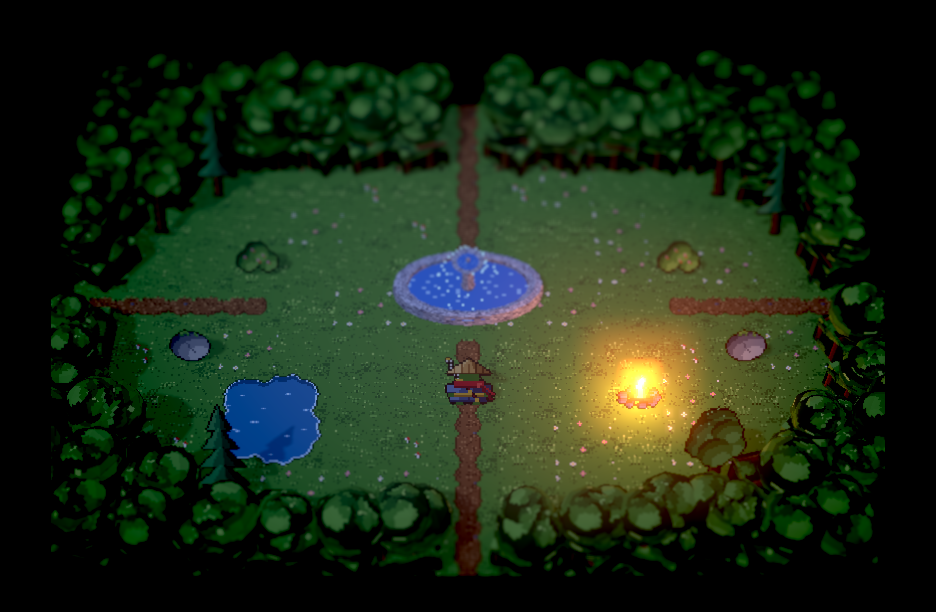
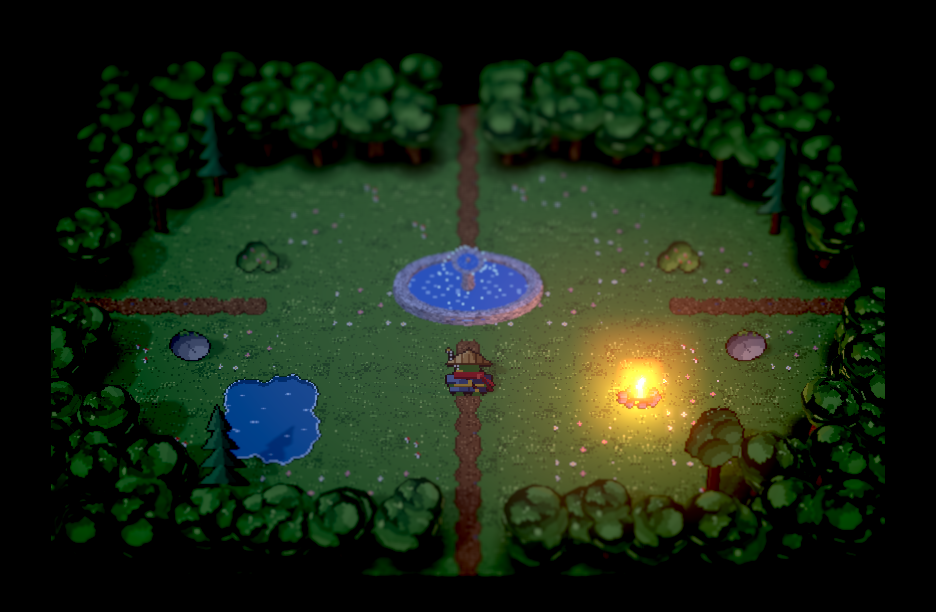
Prototipo HD-2D: un tronco por copa y sombra suave bajo el bosque
Los troncos eran la cara plana de una caja; ahora cada copa tiene su cilindro con corteza pixelada. Bajo el bosque, hierba con una sombra redonda por árbol en vez de un rectángulo oscuro.

Changed region(s): [[0.031, 0.0621, 0.9605, 0.9624], [0.4647, 0.5588, 0.5267, 0.683]]

diff --git a/src/prototipo/hd2d.ts b/src/prototipo/hd2d.ts
@@ -21,7 +21,7 @@ import { crearTeclado } from '../input/teclado';
 import { iniciarBucle } from '../render/bucle';
 import { cargarSprite, cargarTilesets } from '../render/recursos';
 import { dibujarTile } from '../render/sala';
-import { crearFuente } from './fuente';
+import { crearFuente, ruido } from './fuente';
 
 // shortcut: números de prueba en el código; si la v2 sigue adelante, pasan a src/data/.
 const AJUSTES = {
@@ -32,7 +32,21 @@ const AJUSTES = {
   /** Alto de los troncos del borde del bosque, en casillas. */
   altoTronco: 0.6,
   /** Copas del borde del bosque: bolas por casilla, radio mínimo y máximo, cuánto se separan del centro, a qué altura sobre el tronco y cuánto se aplastan. */
-  copas: { porCasilla: 3, radioMin: 0.42, radioMax: 0.6, desvio: 0.5, alto: 0.1, aplastar: 0.8 },
+  copas: {
+    porCasilla: 3,
+    radioMin: 0.42,
+    radioMax: 0.6,
+    desvio: 0.5,
+    alto: 0.1,
+    aplastar: 0.8,
+    /** Radio de los troncos, en casillas. */
+    troncoMin: 0.06,
+    troncoMax: 0.1,
+    /** Sombra en el suelo bajo cada copa: radio (por el de la copa) y opacidad en el centro. */
+    sombra: { radio: 1.3, fuerza: 0.7 },
+  },
+  /** Colores de la corteza (clara, media, oscura). */
+  corteza: [0x9a6a42, 0x7a5233, 0x5a3b26],
   /** Fracción de la inclinación de la cámara que se echan atrás los sprites (1 = de cara; menos, para no meterse en los muros). */
   inclinacionSprites: 0.5,
   /** La fuente es un modelo 3D en vez de sprites; `centroZ` la baja dentro de su casilla central. */
@@ -100,23 +114,59 @@ async function iniciar(): Promise<void> {
   );
   camara.lookAt(centro);
 
-  // Suelo: un plano con los tiles de fondo de la sala.
+  // Muros: árboles de verdad. Copas redondas con la textura de muro_a, cada una sobre su tronco,
+  // de tamaño y sitio algo al azar para que el borde del bosque no salga recto.
+  const c = AJUSTES.copas;
+  const azarCopas = crearAzar(23);
+  const arboles = sala.base.flatMap((t, i) => {
+    if (t.layer !== 'muro') return [];
+    const x = i % sala.ancho;
+    const z = Math.floor(i / sala.ancho);
+    return Array.from({ length: c.porCasilla }, () => ({
+      x: x + 0.5 + (azarCopas() - 0.5) * c.desvio,
+      z: z + 0.5 + (azarCopas() - 0.5) * c.desvio,
+      radio: c.radioMin + azarCopas() * (c.radioMax - c.radioMin),
+      alto: AJUSTES.altoTronco + c.alto + azarCopas() * c.desvio,
+      grosor: c.troncoMin + azarCopas() * (c.troncoMax - c.troncoMin),
+      giro: azarCopas() * 6,
+    }));
+  });
+
+  // Suelo: un plano con los tiles de fondo de la sala. Bajo el bosque, hierba con una sombra
+  // redonda por árbol, para que el borde sea irregular y no un rectángulo oscuro.
+  const hierba = [...catalogo.values()].find((t) => t.layer === 'suelo' && t.weight);
   const suelo = new THREE.Mesh(
     new THREE.PlaneGeometry(sala.ancho, sala.alto),
     new THREE.MeshLambertMaterial({
       map: textura(
-        pintar(sala.ancho, sala.alto, tam, (ctx) =>
-          sala.base.forEach((t, i) =>
+        pintar(sala.ancho, sala.alto, tam, (ctx) => {
+          sala.base.forEach((t, i) => {
+            const fondo = t.layer === 'muro' ? (hierba ?? t) : t;
             dibujarTile(
               ctx,
               imagenes,
-              t,
+              fondo,
               tam,
               (i % sala.ancho) * tam,
               Math.floor(i / sala.ancho) * tam,
-            ),
-          ),
-        ),
+            );
+          });
+          for (const a of arboles) {
+            const r = a.radio * c.sombra.radio * tam;
+            const sombra = ctx.createRadialGradient(
+              a.x * tam,
+              a.z * tam,
+              0,
+              a.x * tam,
+              a.z * tam,
+              r,
+            );
+            sombra.addColorStop(0, `rgba(10, 18, 12, ${c.sombra.fuerza})`);
+            sombra.addColorStop(1, 'rgba(10, 18, 12, 0)');
+            ctx.fillStyle = sombra;
+            ctx.fillRect(a.x * tam - r, a.z * tam - r, r * 2, r * 2);
+          }
+        }),
       ),
     }),
   );
@@ -125,49 +175,30 @@ async function iniciar(): Promise<void> {
   suelo.receiveShadow = true;
   escena.add(suelo);
 
-  // Muros: troncos bajos (la parte de abajo de muro_norte) y encima copas redondas con la textura de muro_a,
-  // de tamaño y sitio algo al azar para que el borde del bosque no salga recto.
-  const texTronco = textura(tileSuelto(imagenes, tile(catalogo, 'muro_norte_a'), tam));
-  texTronco.repeat.set(1, AJUSTES.altoTronco);
-  const tronco = new THREE.MeshLambertMaterial({ map: texTronco });
+  const tronco = new THREE.MeshLambertMaterial({
+    map: ruido(AJUSTES.corteza, [0.45, 0.4, 0.15], crearAzar(5), 1, 2),
+    flatShading: true,
+  });
   const copa = new THREE.MeshLambertMaterial({
     map: textura(tileSuelto(imagenes, tile(catalogo, 'muro_a'), tam)),
     flatShading: true,
   });
-  const muros = sala.base.flatMap((t, i) =>
-    t.layer === 'muro' ? [[i % sala.ancho, Math.floor(i / sala.ancho)] as const] : [],
-  );
-  const troncos = new THREE.InstancedMesh(
-    new THREE.BoxGeometry(1, AJUSTES.altoTronco, 1),
-    tronco,
-    muros.length,
-  );
-  const c = AJUSTES.copas;
-  const copas = new THREE.InstancedMesh(
-    new THREE.IcosahedronGeometry(1, 1),
-    copa,
-    muros.length * c.porCasilla,
-  );
-  const azarCopas = crearAzar(23);
+  // Cilindro de alto 1 con la base en el suelo; cada instancia lo estira hasta su copa.
+  const cilindro = new THREE.CylinderGeometry(0.8, 1, 1, 6);
+  cilindro.translate(0, 0.5, 0);
+  const troncos = new THREE.InstancedMesh(cilindro, tronco, arboles.length);
+  const copas = new THREE.InstancedMesh(new THREE.IcosahedronGeometry(1, 1), copa, arboles.length);
   const molde = new THREE.Object3D();
-  muros.forEach(([x, z], i) => {
-    molde.position.set(x + 0.5, AJUSTES.altoTronco / 2, z + 0.5);
-    molde.scale.set(1, 1, 1);
+  arboles.forEach((a, i) => {
+    molde.position.set(a.x, a.alto, a.z);
+    molde.rotation.set(0, a.giro, 0);
+    molde.scale.set(a.radio, a.radio * c.aplastar, a.radio);
+    molde.updateMatrix();
+    copas.setMatrixAt(i, molde.matrix);
+    molde.position.set(a.x, 0, a.z);
+    molde.scale.set(a.grosor, a.alto, a.grosor);
     molde.updateMatrix();
     troncos.setMatrixAt(i, molde.matrix);
-    for (let k = 0; k < c.porCasilla; k++) {
-      const r = c.radioMin + azarCopas() * (c.radioMax - c.radioMin);
-      molde.position.set(
-        x + 0.5 + (azarCopas() - 0.5) * c.desvio,
-        AJUSTES.altoTronco + c.alto + azarCopas() * c.desvio,
-        z + 0.5 + (azarCopas() - 0.5) * c.desvio,
-      );
-      // Solo de lado: los troncos que trae la textura se quedan abajo.
-      molde.rotation.set(0, azarCopas() * 6, 0);
-      molde.scale.set(r, r * c.aplastar, r);
-      molde.updateMatrix();
-      copas.setMatrixAt(i * c.porCasilla + k, molde.matrix);
-    }
   });
   for (const m of [troncos, copas]) {
     m.castShadow = true;

diff --git a/src/prototipo/fuente.ts b/src/prototipo/fuente.ts
@@ -123,7 +123,7 @@ export function crearFuente(
 }
 
 /** Textura pequeña de píxeles de la paleta, al azar con los pesos dados, para dar grano de pixel art. */
-function ruido(
+export function ruido(
   colores: readonly number[],
   pesos: readonly number[],
   azar: () => number,
